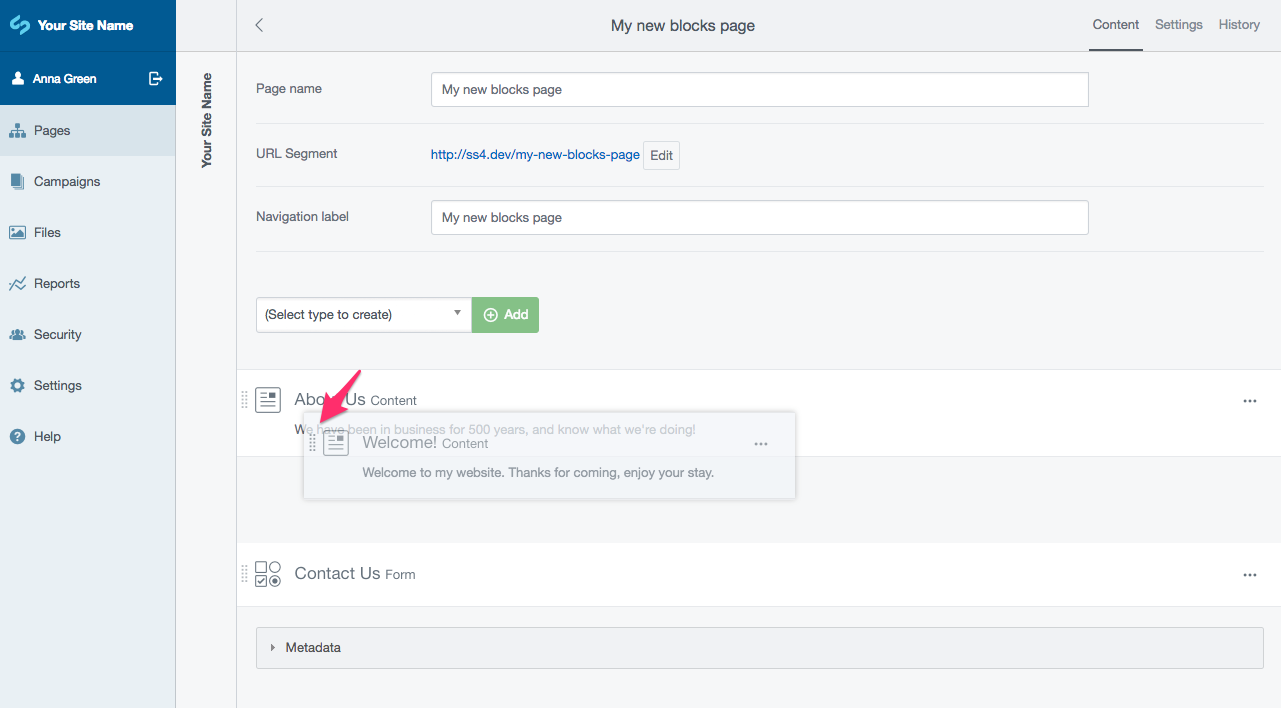
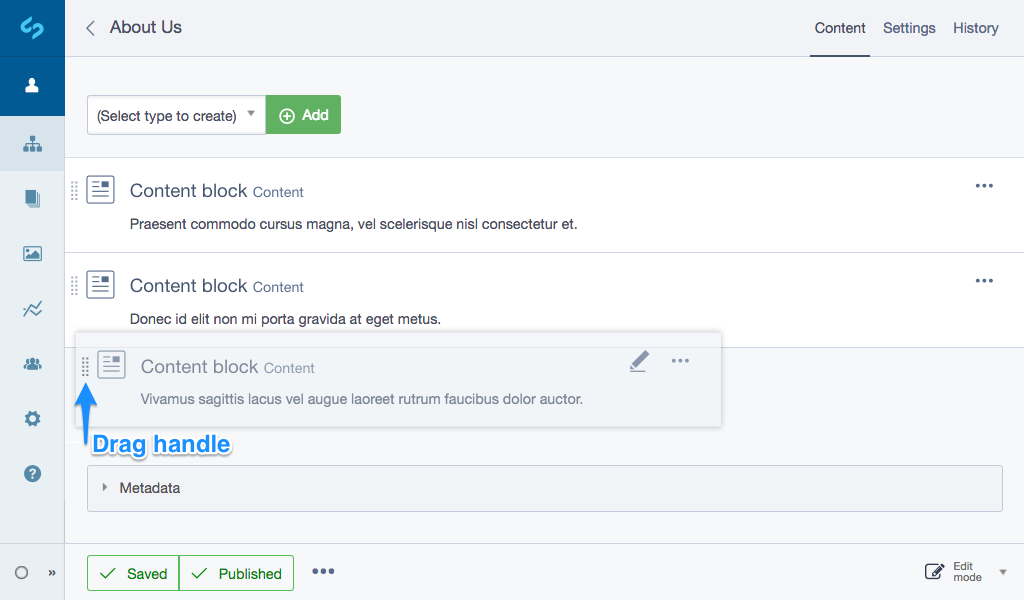
DOCS Update userhelp content and images

diff --git a/README.md b/README.md
@@ -17,7 +17,7 @@ of rather than a single text field. Features supported:
 The module provides basic markup for each of the elements but you will likely need to provide your own styles. Replace
 the `$Content` variable with `$ElementalArea` in your page templates, and rely on the markup of the individual elements.
 
-For a more detailed overview of using this module, please see [the user help documentation](docs/en/index.md).
+For a more detailed overview of using this module, please see [the User help guides](docs/en/index.md).
 
 ## Requirements
 
@@ -33,7 +33,7 @@ composer require dnadesign/silverstripe-elemental 2.x-dev
 ```
 
 The following YAML config will enable elements on every `Page` object,
-replacing the standard `Content` rich text field. 
+replacing the standard `Content` rich text field.
 
 **mysite/\_config/elements.yml**
 
@@ -47,13 +47,20 @@ In your page type layout template use `$ElementalArea` to render the elements to
 
 ## Getting more elements
 
-Note that this module only comes by default with the base element and a "Content" element. If you need more, take
+Note that this module comes by default with the base element and a "Content" element. If you need more, take
 a look at some other modules:
 
+## SilverStripe supported content block modules
+
+To learn more about [SilverStripe supported](https://www.silverstripe.org/software/addons/supported-modules-definition/) content block types see, [Creating new blocks](/docs/en/edit_content.md).
+
 * [dnadesign/silverstripe-elemental](https://github.com/dnadesign/silverstripe-elemental): Text content (built-in)
-* [silverstripe/silverstripe-elemental-blocks](https://github.com/silverstripe/silverstripe-elemental-blocks): File and image block
-* [silverstripe/silverstripe-elemental-blocks](https://github.com/silverstripe/silverstripe-elemental-blocks): Banner with call-to-action and content
+* [silverstripe/silverstripe-elemental-fileblock](https://github.com/silverstripe/silverstripe-elemental-fileblock): File and image block
+* [silverstripe/silverstripe-elemental-bannerblock](https://github.com/silverstripe/silverstripe-elemental-bannerblock): Banner with call-to-action and content
 * [dnadesign/silverstripe-elemental-userforms](https://github.com/dnadesign/silverstripe-elemental-userforms): Embed a [user defined form](https://github.com/silverstripe/silverstripe-userforms)
+
+## Examples of community built content block modules (not a comprehensive list)
+
 * [dnadesign/silverstripe-elemental-list](https://github.com/dnadesign/silverstripe-elemental-list): Container for elements (allows layouts)
 * [dnadesign/silverstripe-elemental-virtual](https://github.com/dnadesign/silverstripe-elemental-virtual): Reuse elements across pages
 * [dynamic/silverstripe-elemental-customer-service](https://github.com/dynamic/silverstripe-elemental-customer-service): Contact information
@@ -72,8 +79,6 @@ more compatible with other approaches in SilverStripe:
 
 * [dnadesign/silverstripe-elemental-subsites](https://github.com/dnadesign/silverstripe-elemental-subsites): Compatibility with the [silverstripe/subsites](https://github.com/silverstripe/silverstripe-subsites) module
 * [dnadesign/silverstripe-elemental-skeletons](https://github.com/dnadesign/silverstripe-elemental-skeletons): Creates a template of elements which can be created for a page in the CMS
-
-
 
 ## Configuration
 
@@ -198,7 +203,7 @@ DNADesign\Elemental\Models\ElementContent:
 ### Disabling the default stylesheets
 
 When installing this module, there may be a default set of CSS stylesheets that come to provide some examples for the
-various default element types for the frontend website.
+various default element types for the front-end website.
 
 You can disable this with YAML configuration:
 
@@ -243,12 +248,11 @@ yarn build
 
 You'll need to have [yarn installed](https://yarnpkg.com/en/docs/install) globally in your command line.
 
-**Note:** If adding or modifying colours, spacing, font sizes etc. please try and use an appropriate variable from the
-silverstripe/admin module if available.
+**Note:** If adding or modifying colours, spacing, font sizes etc. please try and use an appropriate variable from the silverstripe/admin module if available.
 
 ## Screenshots
 
-![Overview](docs/images/overview.png)
+![Elemental content block overview](docs/images/content-block-overview.png)
 
 ## Versioning
 

diff --git a/docs/en/edit_content.md b/docs/en/edit_content.md
@@ -1,33 +1,45 @@
 # Creating and editing content
 
-To get started, create a new page in the CMS. For more information on this, see the "Creating pages and content"
-section of the [user help documentation](https://userhelp.silverstripe.org).
+To get started, create a new page in the CMS. For more information, see [Pages and content](https://userhelp.silverstripe.org) User help guide, to learn more.
 
 ## Creating new blocks
 
-Normally in the CMS a page has a Content field which allows you to enter content directly. You will notice now that
-the Content field has been replaced with a list of content blocks. This list will be empty until you have added
-some blocks, so let's do this now.
+Normally in the CMS a page has an HTML editor which allows you to enter content directly.
+You will notice that the HTML editor has been replaced with an empty list and a content block ***Select type to create*** dropdown field.
 
-To get started, choose the type of block you want to create from the "Select type to create" dropdown field, and click
-"Add":
+The block types shown in the dropdown field will depend on your set up. By default the [Elemental module](https://github.com/dnadesign/silverstripe-elemental) only comes with the content block type, **Content**.
+
+We’ve created the most functional and effective elements of content block modules that have been developed by the SilverStripe community and created four generic SilverStripe supported content block types:
+
+* [Content:](https://github.com/dnadesign/silverstripe-elemental) text content (built-in).
+* [Banner:](https://github.com/silverstripe/silverstripe-elemental-bannerblock) banner with call-to-action and content.
+* [File:](https://github.com/silverstripe/silverstripe-elemental-fileblock) file and image block.
+* [Form:](https://github.com/dnadesign/silverstripe-elemental-userforms) integrates [silverstripe-userforms](silverstripe/silverstripe-userforms) and provides a new content block, which can be used to create user defined forms.
+
+For examples of community content blocks see,
+[Getting more elements](https://github.com/dnadesign/silverstripe-elemental#getting-more-elements).
+
+To get started, choose the type of block you want to create from the ***Select type to create*** dropdown field, and click the button ***Add***.
 
 ![Choose a block to create](../images/creating_a_content_block.png)
 
-From here you will be taken to edit the content for the new block. If you've used the SilverStripe CMS in the past, you
-will be familiar with the Content editor you are shown. Enter your content as required, provide a title for the block
-and choose whether you want the title to be shown on the frontend or not via the "Displayed" checkbox.
+From here you will be navigated away to edit the content for the new block. Enter your content as required, provide a title for the block and choose whether you want the title to be shown on the front-end or not via the ***Displayed*** checkbox field.
 
-When you are finished, click "Save" to save the content and you will be safe to return back to your new page.
+When you are finished, click the button ***Save***.
 
 ![Editing content for a block](../images/editing_content.png)
 
 ## Editing existing blocks
 
-Editing an existing block is the same process as creating a new one, only you click on the block you want to edit
-instead of choosing a type and selecting "Add" to create a new one.
+When viewing a page, you can select the content block list item or select **Content** from the ***More actions*** dropdown shown as an ellipses icon.
 
-When viewing a page, aside from clicking on a content block that you want to edit, you can also select "Content" from
-the "more actions" dropdown list at the right hand side:
+![Editing a block via More actions](../images/edit_via_more_actions.png)
 
-![Editing a block via "more actions"](../images/edit_via_more_actions.png)
+# Reordering content blocks
+
+To change the order of content blocks in a page, simply click and hold on the drag handle icon on the left hand side of a block list item, then drag and release to reorder the item.
+
+![Reordering content blocks](../images/reordering_blocks.png)
+
+When you release your mouse the blocks will automatically save their new positions, however you may need to publish
+the page to see the new order in the front-end of your website.

diff --git a/docs/en/reports.md b/docs/en/reports.md
@@ -1,30 +1,28 @@
 # Use the reports
 
-The [Elemental module](https://addons.silverstripe.org/add-ons/dnadesign/silverstripe-elemental) adds some new
-reports to the "Reports" section of the CMS. These will allow you to identify and find content in blocks quickly.
+The [Elemental module](https://addons.silverstripe.org/add-ons/dnadesign/silverstripe-elemental) will add new
+reports to the **Reports** section of the CMS. These will allow you to identify and find content within blocks quickly.
 
 ## Content block types
 
 This report will list all types of content blocks in your system, as well as how many times they have been
 used to create content.
 
-You can find this by navigating to "Reports" and choosing "Content block types" from the list:
+Navigating to the **Reports** section in the CMS menu and select the report ***Content block types***.
 
 ![Content block types report](../images/report_types.png)
 
-You can click on a content block type to go to the "content blocks in use" report, filtered by this type of block.
+You can select a content block type to view the ***Content blocks in use*** report, filtered by this type of block.
 
 ## Content blocks in use
 
 Here you will be shown a more detailed overview of the content blocks in your system, which type they are and
 which page they were created on.
 
-![Content blocks in use report](../images/report_in_use.png)
+Select any block title, or page name to enter Edit mode.
 
-Click on any block title, or page name to go to edit the block.
+![Content blocks in use report](../images/report_in_use.png)
 
 ## Printing and exporting
 
-For any SilverStripe report you can select either "Print" or "Export to CSV" to save or export your report data:
-
-![Print or export to CSV](../images/print_or_export.png)
+To print or export your report data click the buttons ***Print*** or ***Export to CSV***.

diff --git a/docs/en/history.md b/docs/en/history.md
@@ -3,25 +3,18 @@
 ## Finding historic versions of content
 
 Whenever you modify a block and save it, a new version of the block is created and the old version is saved in a
-history archive. You can view this archive from the "History" tab of any block, which will show you a list of each
-version, the date it was modified or published and the user who actioned the change.
+history archive. You can view the archived item by navigating to the **History** tab of any block, which will show you a list of each version, the date it was modified or published and the user who actioned the change.
 
 ![Viewing the history of a block](../images/viewing_block_history.png)
 
-You can click on a specific version from the list to see a reference of what that block looked like at that version:
+You can select a specific version to see a reference of what the content block looked like at that version.
 
 ![A version in history](../images/block_version.png)
 
 ## Rolling back to specific versions
 
-If you want to revert a content block back to an old version, simply choose the version you want from the list and
-click on the "Revert to this version" button at the bottom:
+If you want to revert a content block back to an old version, simply choose the version you want from the list and click the button ***Revert to this version***.
 
 ![Revert button](../images/revert_button.png)
 
-You will then see a success message:
-
-![Success message](../images/revert_success_message.png)
-
-Doing this will create a new draft version of the block with the old content in it. You will need to publish the
-new content for it to be visible on the frontend website.
+This will create a new draft version of the content block with the old content present. You will need to publish the content block in order to be visible on the front-end website.

diff --git a/docs/en/index.md b/docs/en/index.md
@@ -1,3 +1,6 @@
+title: Content blocks
+summary: Creating content blocks in the CMS.
+
 # Using content blocks in the CMS
 
 The [Elemental module](https://addons.silverstripe.org/add-ons/dnadesign/silverstripe-elemental) provides the ability
@@ -9,12 +12,12 @@ developers over how certain pieces of content are presented.
 
 Make sure that your SilverStripe CMS installation has the [Elemental module](https://addons.silverstripe.org/add-ons/dnadesign/silverstripe-elemental)
 installed, and optionally the [SilverStripe Blocks addon module](https://addons.silverstripe.org/add-ons/silverstripe/elemental-blocks).
+https://github.com/dnadesign/silverstripe-elemental/#getting-more-elements
 
-We also assume that you have had a developer enable the functionality with configuration before you start.
+<div class="note" markdown="1">Developer knowledge is required to enable the functionality within the configuration before you begin.</div>
 
 ## Features
 
-* [Create and editing content blocks](edit_content.md)
-* [Reordering content blocks](reordering_content.md)
-* [Use history and rollback to certain versions](history.md)
-* [Use the reports](reports.md)
+* [Create and editing Content blocks](edit_content.md)
+* [History and rollback to certain versions](history.md)
+* [Reports](reports.md)
